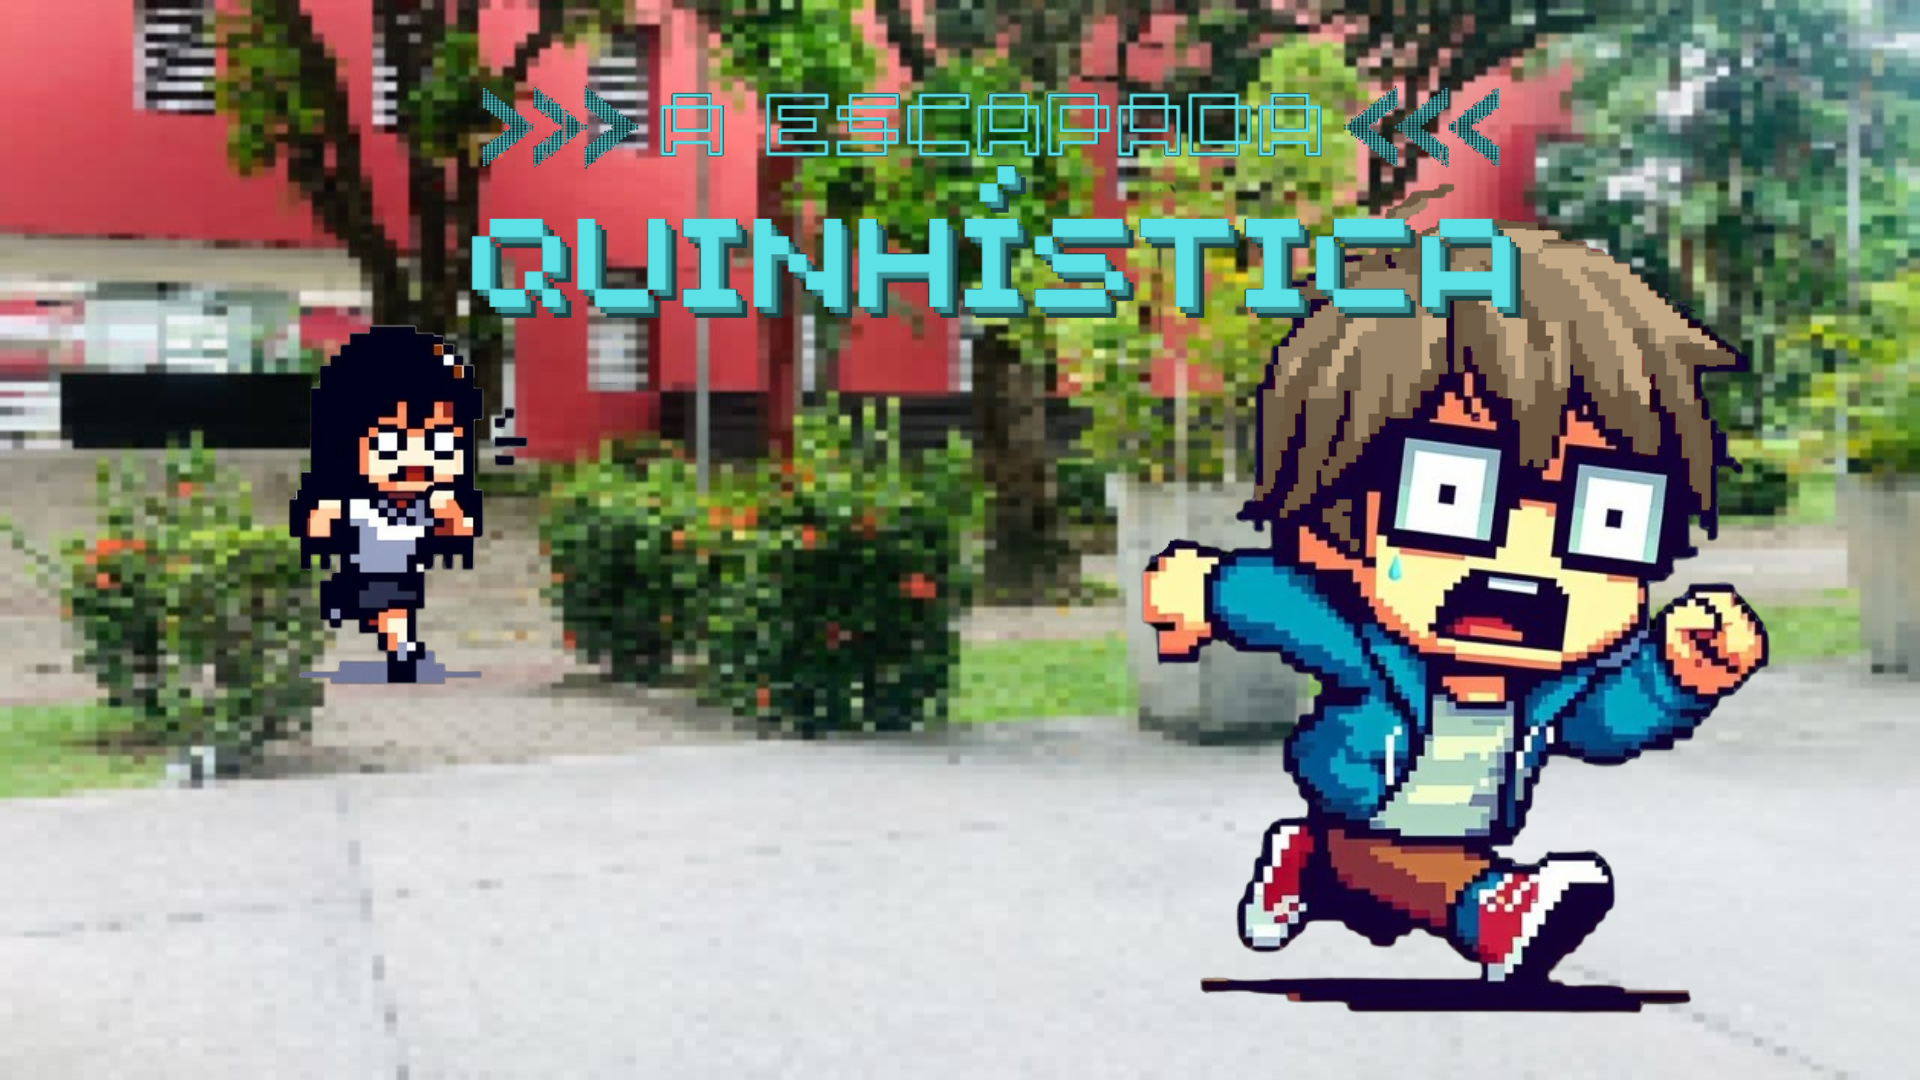
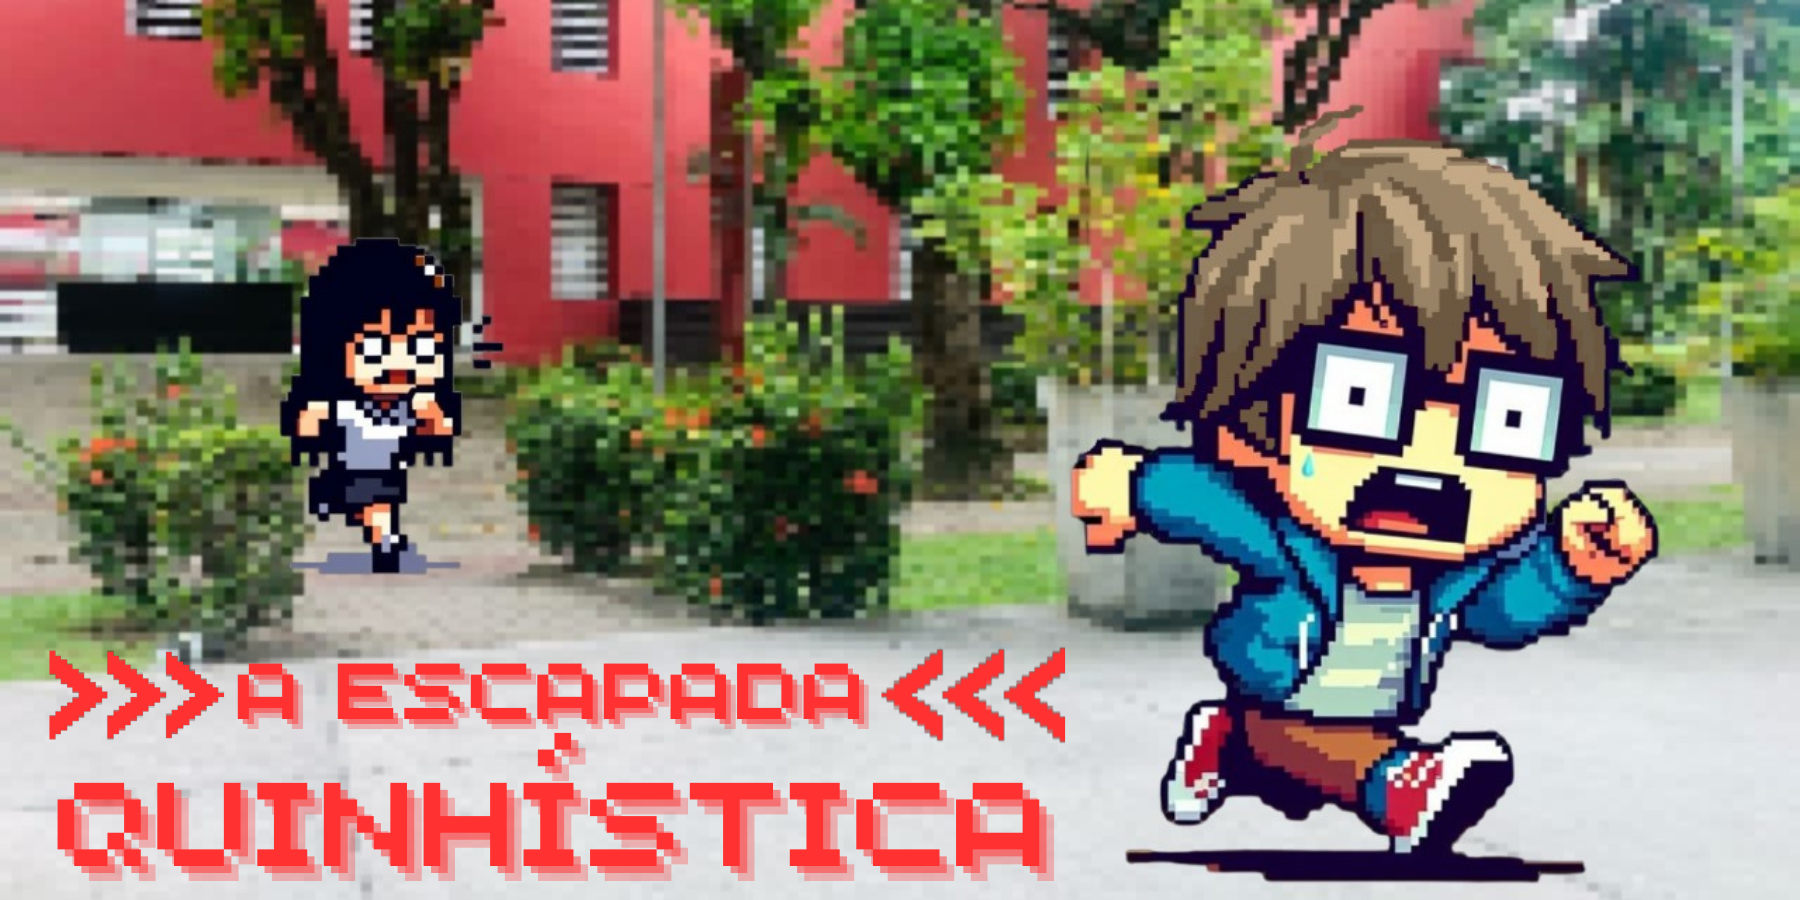
mudando para vermelho

diff --git a/main.c b/main.c
@@ -49,7 +49,7 @@ int main()
     int screenHeight = GetScreenHeight();
     int screenWidth = GetScreenWidth();
     int posXbutton = (screenWidth - 400) * 2 / 5;
-    int posYbuttonS = (screenHeight - 400) * 3 / 5;
+    int posYbuttonS = (screenHeight - 400) * 1 / 5;
     int posYbuttonH = posYbuttonS + 150;
     int posYbuttonC = posYbuttonH + 150;
     int posYbuttonE = posYbuttonC + 150;

diff --git a/menu.c b/menu.c
@@ -28,7 +28,7 @@ void DrawBorders(int borderWidth1, int borderWidth2, int borderWidth3, Color col
 void DrawBase()
 {
     ClearBackground(BLACK);
-    DrawBorders(8, 5, 5, SKYBLUE, BLACK, SKYBLUE);
+    DrawBorders(8, 5, 5, RED, BLACK, RED);
 }
 
 void DrawButton(Button button, int borderWidth1, Color borderColor1, int borderWidth2, Color borderColor2)
